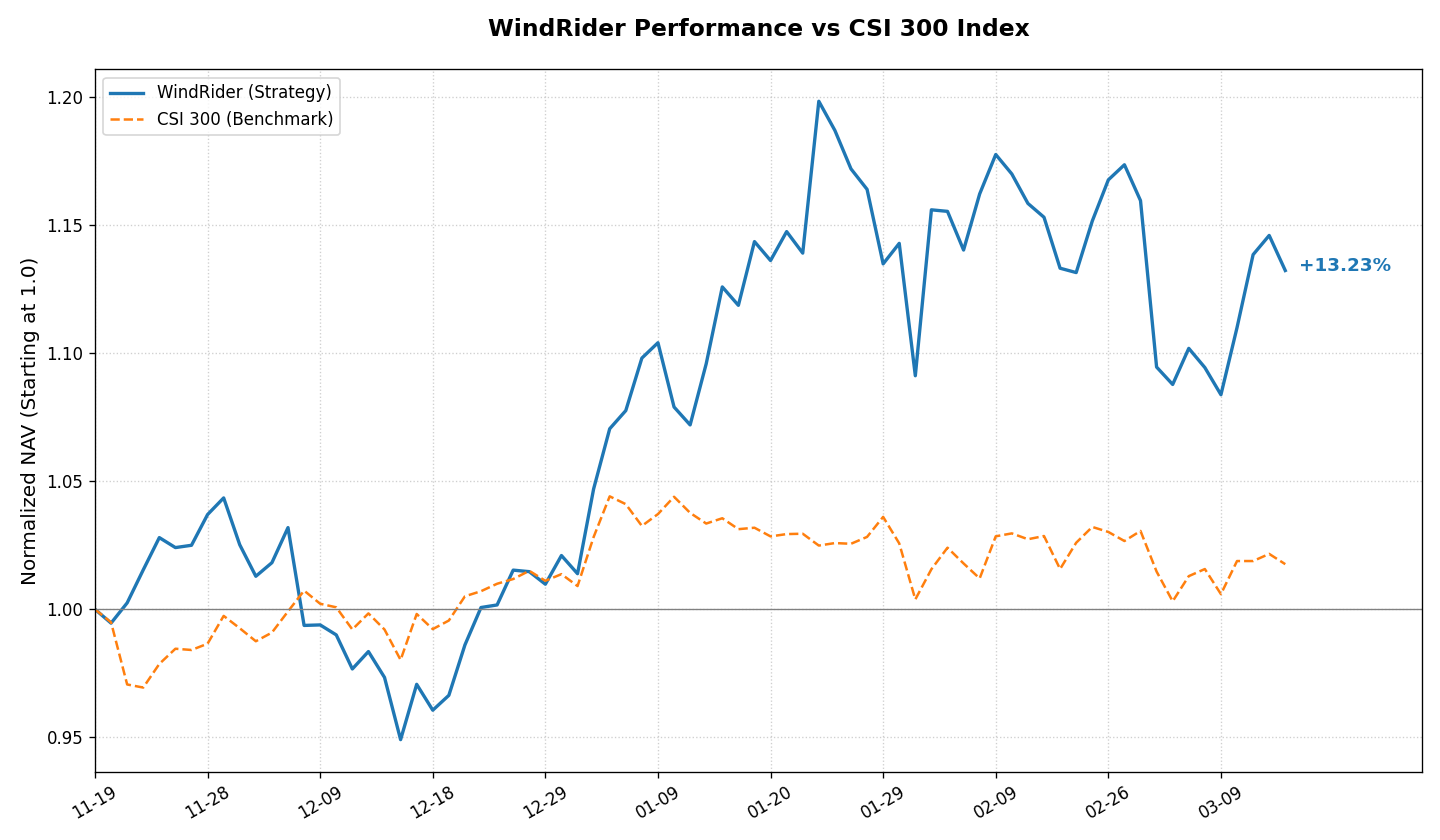
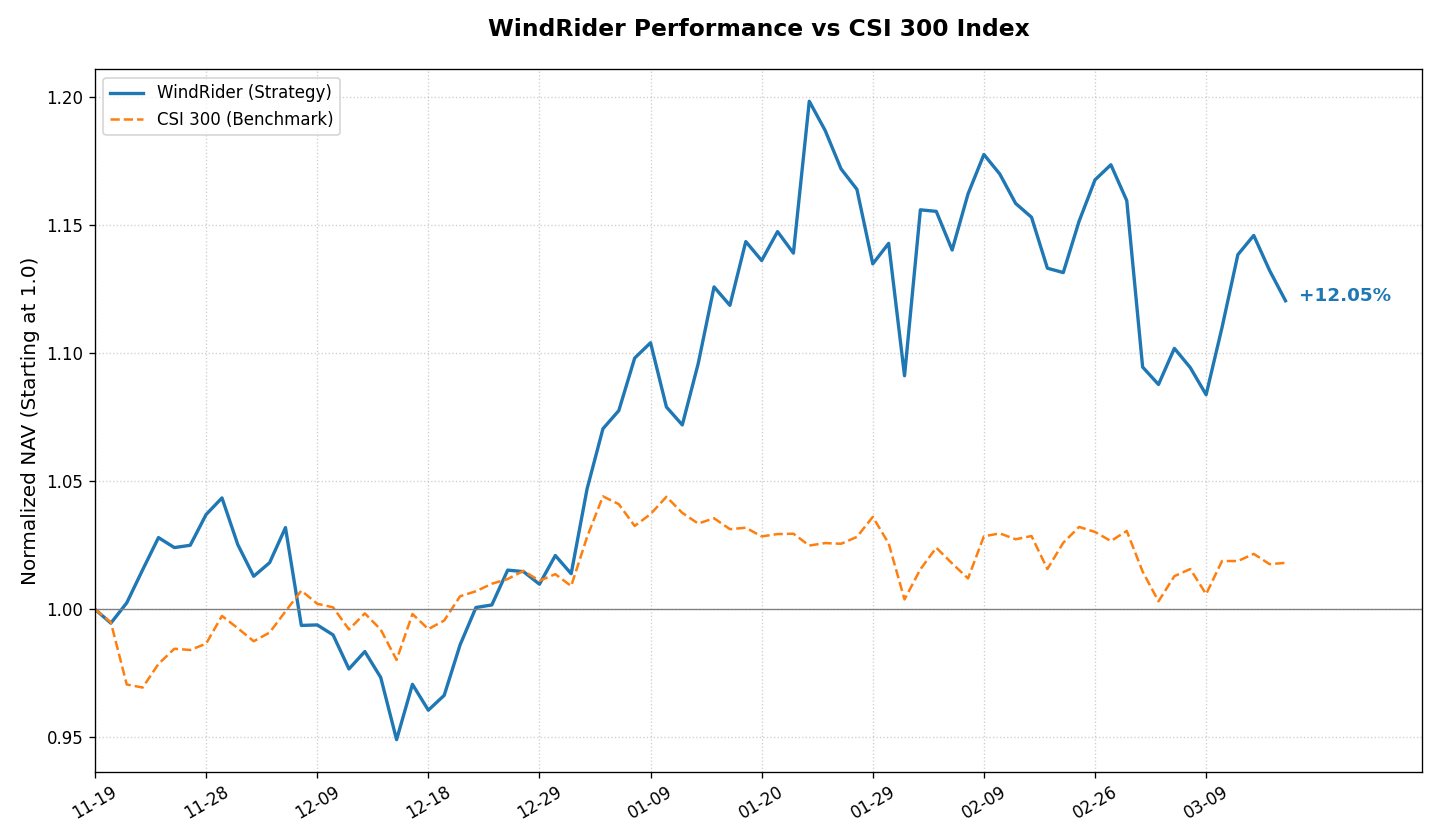
Updated Hugo site content

diff --git a/public/investment/position/index.html b/public/investment/position/index.html
@@ -66,8 +66,8 @@
   <meta property="og:locale" content="zh-cn">
   <meta property="og:type" content="article">
     <meta property="article:section" content="investment">
-    <meta property="article:published_time" content="2026-03-13T23:04:09+08:00">
-    <meta property="article:modified_time" content="2026-03-13T23:04:09+08:00">
+    <meta property="article:published_time" content="2026-03-13T23:13:28+08:00">
+    <meta property="article:modified_time" content="2026-03-13T23:13:28+08:00">
 <meta name="twitter:card" content="summary">
 <meta name="twitter:title" content="如山-股票组合持仓 /// Position">
 <meta name="twitter:description" content="如山股票组合持仓">
@@ -103,11 +103,11 @@
   "keywords": [
     
   ],
-  "articleBody": " 风舵股票组合 /// 每日持仓 WindRider Equity Portfolio 净值简报 (截至: 2026-03-13)\n指数代码： WDR.EQ 成立日期： 2025-11-19 最新净值： 1.1323 今日涨跌： -1.19% ===========================\n核心表现 累计收益： +13.23% 年化收益： +48.86% 最大回撤： -9.56% 基准点位： 4669.14 (CSI300) 策略状态： 已运行 115 天 持仓明细 股票名称 成本价 现价 盈亏 占比 先导智能 300450 52.17 51.90 -0.51% 98.17% 收益率对比曲线 声明：本页面数据为实盘记录，持仓数据每日收盘后更新。\n数据仅供技术交流，不构成投资建议。\n",
+  "articleBody": " 风舵股票组合 /// 每日持仓 WindRider Equity Portfolio 净值简报 (截至: 2026-03-13)\n指数代码： WDR.EQ 成立日期： 2025-11-19 最新净值： 1.1323 今日涨跌： -1.20% ===========================\n核心表现 累计收益： +13.23% 年化收益： +48.86% 最大回撤： -9.56% 基准点位： 4669.14 (CSI300) 策略状态： 已运行 115 天 持仓明细 股票名称 成本价 现价 盈亏 占比 先导智能 300450 52.17 51.90 -0.51% 98.17% 收益率对比曲线 声明：本页面数据为实盘记录，持仓数据每日收盘后更新。\n数据仅供技术交流，不构成投资建议。\n",
   "wordCount" : "47",
   "inLanguage": "zh-cn",
-  "datePublished": "2026-03-13T23:04:09+08:00",
-  "dateModified": "2026-03-13T23:04:09+08:00",
+  "datePublished": "2026-03-13T23:13:28+08:00",
+  "dateModified": "2026-03-13T23:13:28+08:00",
   "mainEntityOfPage": {
     "@type": "WebPage",
     "@id": "https://hankou.com/investment/position/"
@@ -196,7 +196,7 @@
     <div class="post-description">
       如山股票组合持仓
     </div>
-    <div class="post-meta"><span title='2026-03-13 23:04:09 +0800 CST'>March 13, 2026</span>
+    <div class="post-meta"><span title='2026-03-13 23:13:28 +0800 CST'>March 13, 2026</span>
 
 </div>
   </header> 
@@ -228,7 +228,7 @@
       </tr>
       <tr>
           <td style="text-align: left"><strong>今日涨跌：</strong></td>
-          <td style="text-align: left">-1.19%</td>
+          <td style="text-align: left">-1.20%</td>
       </tr>
   </tbody>
 </table>

diff --git a/public/investment/index.html b/public/investment/index.html
@@ -157,7 +157,7 @@
   <div class="entry-content">
     <p>主动管理型股票组合。对标沪深300指数，采用基本面选股策略。</p>
   </div>
-  <footer class="entry-footer"><span title='2026-03-13 23:04:09 +0800 CST'>March 13, 2026</span></footer>
+  <footer class="entry-footer"><span title='2026-03-13 23:13:28 +0800 CST'>March 13, 2026</span></footer>
   <a class="entry-link" aria-label="post link to 如山-股票组合持仓 /// Position" href="https://hankou.com/investment/position/"></a>
 </article>
 

diff --git a/content/investment/position.md b/content/investment/position.md
@@ -1,8 +1,8 @@
 +++
 title = "如山-股票组合持仓 /// Position"
 summary = "主动管理型股票组合。对标沪深300指数，采用基本面选股策略。"
-date = 2026-03-13T23:13:28+08:00
-lastmod = 2026-03-13T23:13:28+08:00
+date = 2026-03-16T15:10:05+08:00
+lastmod = 2026-03-16T15:10:05+08:00
 draft = false
 description = "如山股票组合持仓"
 +++
@@ -12,29 +12,29 @@ description = "如山股票组合持仓"
 
 ### 风舵股票组合 &nbsp;&nbsp;<span style="color: #E63946; font-weight: bold;">/</span><span style="color: #F1A73E; font-weight: bold;">/</span><span style="color: #000091; font-weight: bold;">/</span>&nbsp;&nbsp; 每日持仓
 WindRider Equity Portfolio <br>
-净值简报 <small>(截至: 2026-03-13)</small>
+净值简报 <small>(截至: 2026-03-16)</small>
 
 |  |  |
 | :--- | :--- |
 | **指数代码：** | WDR.EQ |
 | **成立日期：** | 2025-11-19 |
-| **最新净值：** | 1.1323 |
-| **今日涨跌：** | -1.20% |
+| **最新净值：** | 1.1205 |
+| **今日涨跌：** | -1.04% |
 
 ===========================
 
 | 核心表现 | |
 | :--- | :--- |
-| **累计收益：** | +13.23% |
-| **年化收益：** | +48.86% |
+| **累计收益：** | +12.05% |
+| **年化收益：** | +42.61% |
 | **最大回撤：** | -9.56% |
-| **基准点位：** | 4669.14 (CSI300) |
-| **策略状态：** | 已运行 115 天 |
+| **基准点位：** | 4671.56 (CSI300) |
+| **策略状态：** | 已运行 118 天 |
 
 ### 持仓明细
 | 股票名称 | 成本价 | 现价 | 盈亏 | 占比 |
 | :--- | :--- | :--- | :--- | :--- | :--- |
-| 先导智能 <small>300450</small> | 52.17 | 51.90 | <span style="color:#2A9D8F">-0.51%</span> | 98.17% |
+| 先导智能 <small>300450</small> | 52.17 | 51.35 | <span style="color:#2A9D8F">-1.57%</span> | 98.15% |
 
 <br>
 
